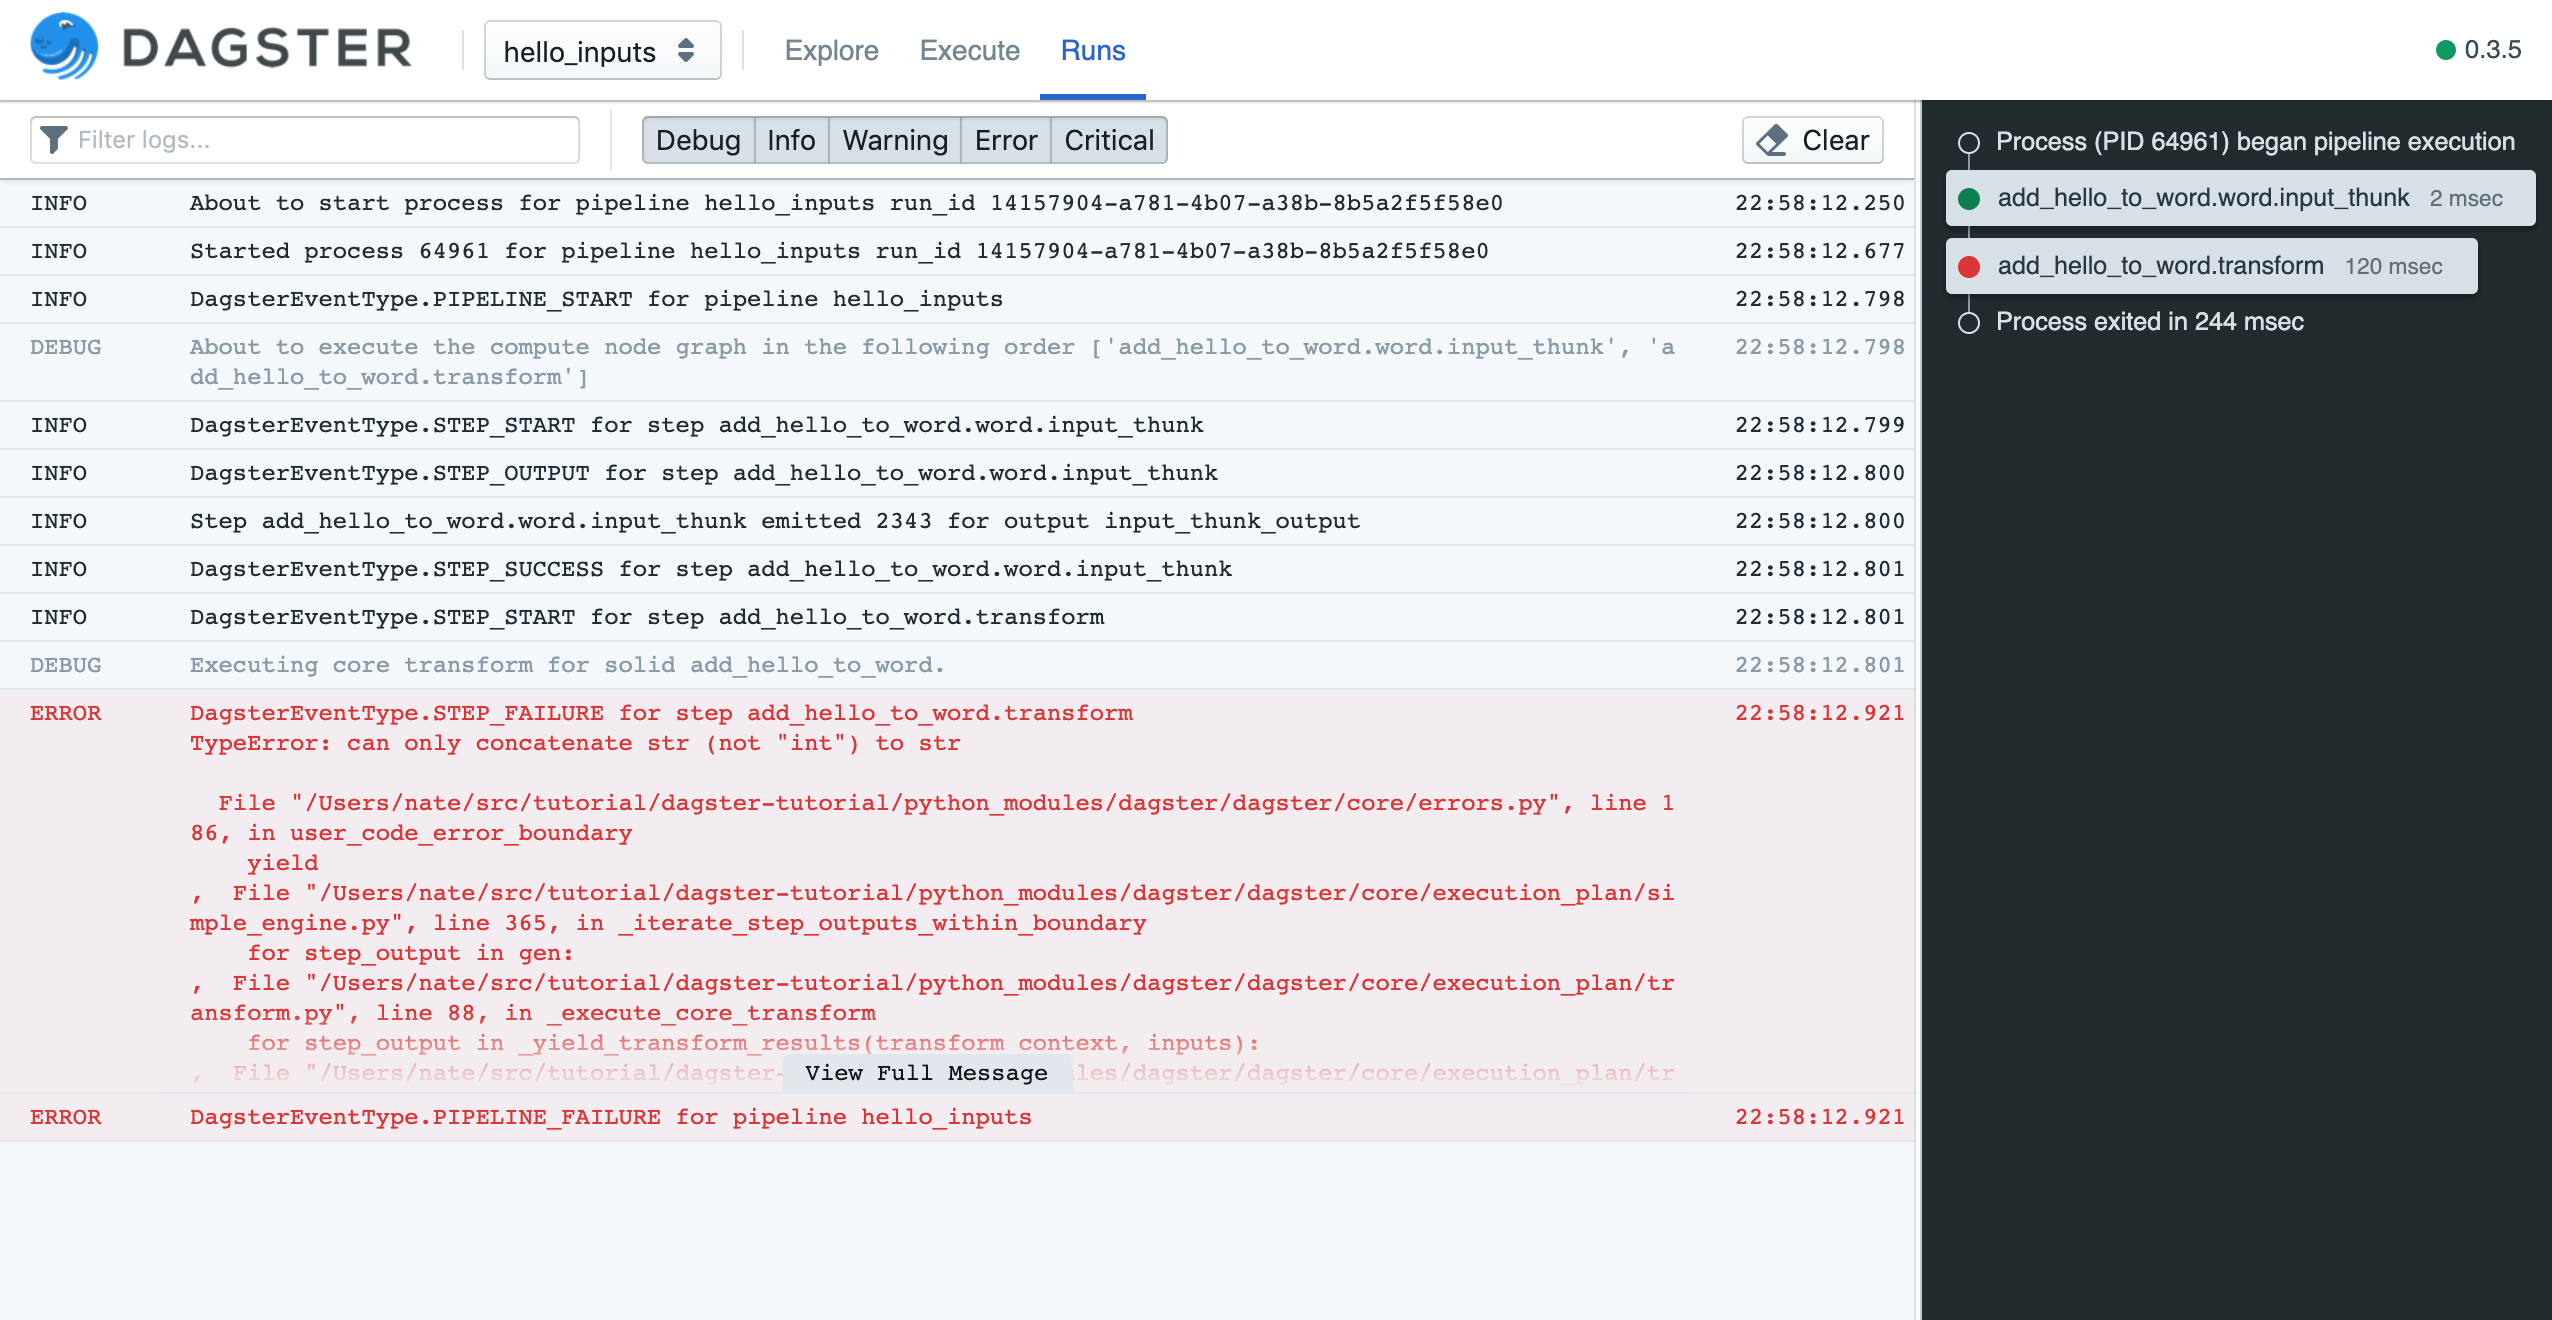
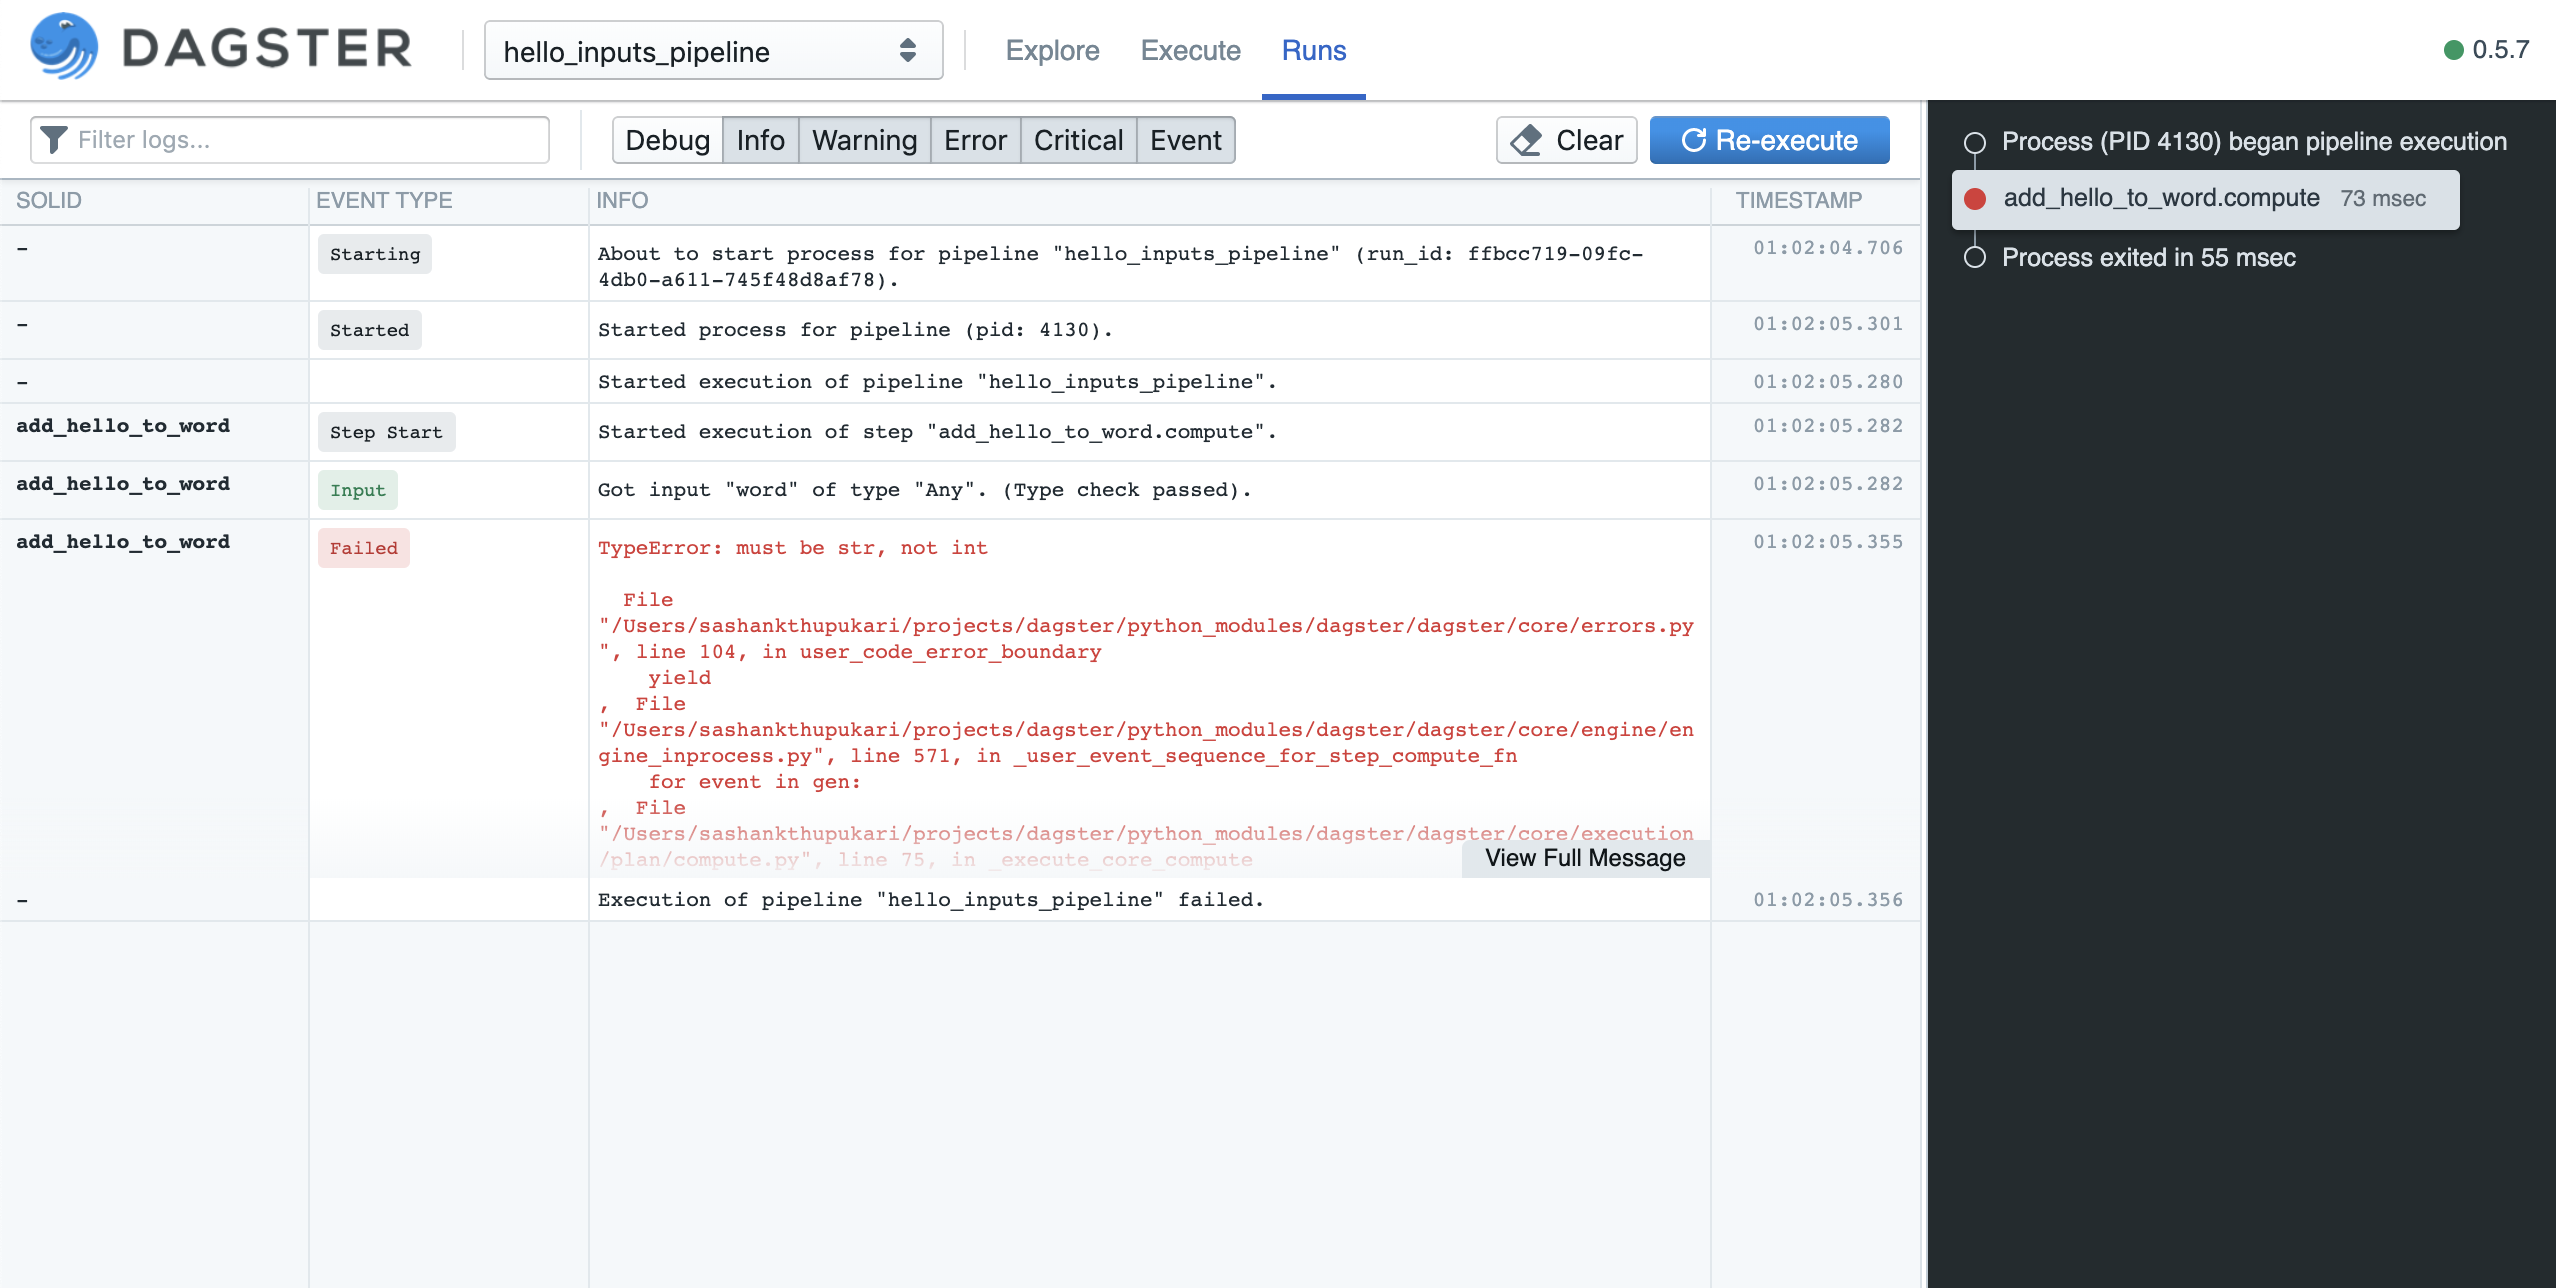
Update dagit images in documentation
Summary: Update screenshots of the dagit logviewer in the documentation.

Test Plan: make livehtml

Reviewers: #ft, natekupp

Reviewed By: #ft, natekupp

Differential Revision: https://dagster.phacility.com/D929

diff --git a/docs/sections/learn/guides/logging/logging.md b/docs/sections/learn/guides/logging/logging.md
@@ -36,7 +36,7 @@ colored messages in the console:
       log_message_id = "49854579-e4d1-4289-8453-b3e177b20056"
        log_timestamp = "2019-05-31T22:11:48.376372"
               run_id = "4542c167-1b8c-40c7-b9b6-434b882ba734"
-            pipeline = "hello_logs"
+            pipeline = "hello_logs_pipeline"
             step_key = "hello_logs.compute"
                solid = "hello_logs"
     solid_definition = "hello_logs"
@@ -69,16 +69,17 @@ and back to Dagit.
 
 <pre>
 <span style="color:green">2019-05-31 15:26:31</span> - <span style="color:blue">dagster</span> - <span style="color:grey">ERROR</span> -
-<span style="color:red">        orig_message = "DagsterEventType.STEP_FAILURE for step hello_error.compute"
-      log_message_id = "1bfcf6fe-be7d-4063-a9ef-e4330b6f1b01"
-       log_timestamp = "2019-05-31T22:26:31.738403"
-              run_id = "04b35dce-795e-4e7c-9be7-2ea8d77611f5"
-            pipeline = "hello_error"
+<span style="color:red">        orig_message = "Execution of step \"hello_error.compute\" failed."
+      log_message_id = "7eb6836b-f91e-4cdc-a82b-906dbf2fd0a5"
+       log_timestamp = "2019-09-04T03:15:48.695104"
+              run_id = "9f38a6dc-fab7-408d-8692-5126c89b4fc0"
+            pipeline = "hello_error_pipeline"
+execution_epoch_time = 1567566948.6136389
             step_key = "hello_error.compute"
                solid = "hello_error"
     solid_definition = "hello_error"
-       dagster_event = {"event_specific_data": [["Exception: Somebody set up us the bomb\n", ["  File \"/Users/max/dev/dagster/python_modules/dagster/dagster/core/errors.py\", line 181, in user_code_error_boundary\n    yield\n", "  File \"/Users/max/dev/dagster/python_modules/dagster/dagster/core/engine/engine_inprocess.py\", line 393, in _iterate_step_outputs_within_boundary\n    for step_output in gen:\n", "  File \"/Users/max/dev/dagster/python_modules/dagster/dagster/core/execution/plan/compute.py\", line 90, in _execute_core_transform\n    for step_output in _yield_transform_results(compute_context, inputs, compute_fn):\n", "  File \"/Users/max/dev/dagster/python_modules/dagster/dagster/core/execution/plan/compute.py\", line 52, in _yield_transform_results\n    for result in gen:\n", "  File \"/Users/max/dev/dagster/python_modules/dagster/dagster/core/definitions/decorators.py\", line 335, in transform\n    result = fn(context, **kwargs)\n", "  File \"/Users/max/dev/dagster/examples/dagster_examples/toys/log_demo.py\", line 11, in hello_error\n    raise Exception('Somebody set up us the bomb')\n"], "Exception"]], "event_type_value": "STEP_FAILURE", "logging_tags": {"pipeline": "hello_error", "solid": "hello_error", "solid_definition": "hello_error", "step_key": "hello_error.compute"}, "pipeline_name": "hello_error", "solid_handle": ["hello_error", "hello_error", null], "step_key": "hello_error.compute", "step_kind_value": "COMPUTE"}
-       pipeline_name = "hello_error"
+       dagster_event = {"event_specific_data": [["Exception: Somebody set up us the bomb\n", ["  File \"/Users/sashankthupukari/projects/dagster/python_modules/dagster/dagster/core/errors.py\", line 104, in user_code_error_boundary\n    yield\n", "  File \"/Users/sashankthupukari/projects/dagster/python_modules/dagster/dagster/core/engine/engine_inprocess.py\", line 571, in _user_event_sequence_for_step_compute_fn\n    for event in gen:\n", "  File \"/Users/sashankthupukari/projects/dagster/python_modules/dagster/dagster/core/execution/plan/compute.py\", line 75, in _execute_core_compute\n    for step_output in _yield_compute_results(compute_context, inputs, compute_fn):\n", "  File \"/Users/sashankthupukari/projects/dagster/python_modules/dagster/dagster/core/execution/plan/compute.py\", line 52, in _yield_compute_results\n    for event in user_event_sequence:\n", "  File \"/Users/sashankthupukari/projects/dagster/python_modules/dagster/dagster/core/definitions/decorators.py\", line 340, in compute\n    result = fn(context, **kwargs)\n", "  File \"/Users/sashankthupukari/projects/dagster-playground/hello_dag.py\", line 6, in hello_error\n    raise Exception('Somebody set up us the bomb')\n"], "Exception"], null], "event_type_value": "STEP_FAILURE", "logging_tags": {"execution_epoch_time": 1567566948.6136389, "pipeline": "hello_error_pipeline", "solid": "hello_error", "solid_definition": "hello_error", "step_key": "hello_error.compute"}, "message": "Execution of step \"hello_error.compute\" failed.", "pipeline_name": "hello_error_pipeline", "solid_handle": ["hello_error", "hello_error", null], "step_key": "hello_error.compute", "step_kind_value": "COMPUTE"}
+       pipeline_name = "hello_error_pipeline"
 </span>
 </pre>
 
